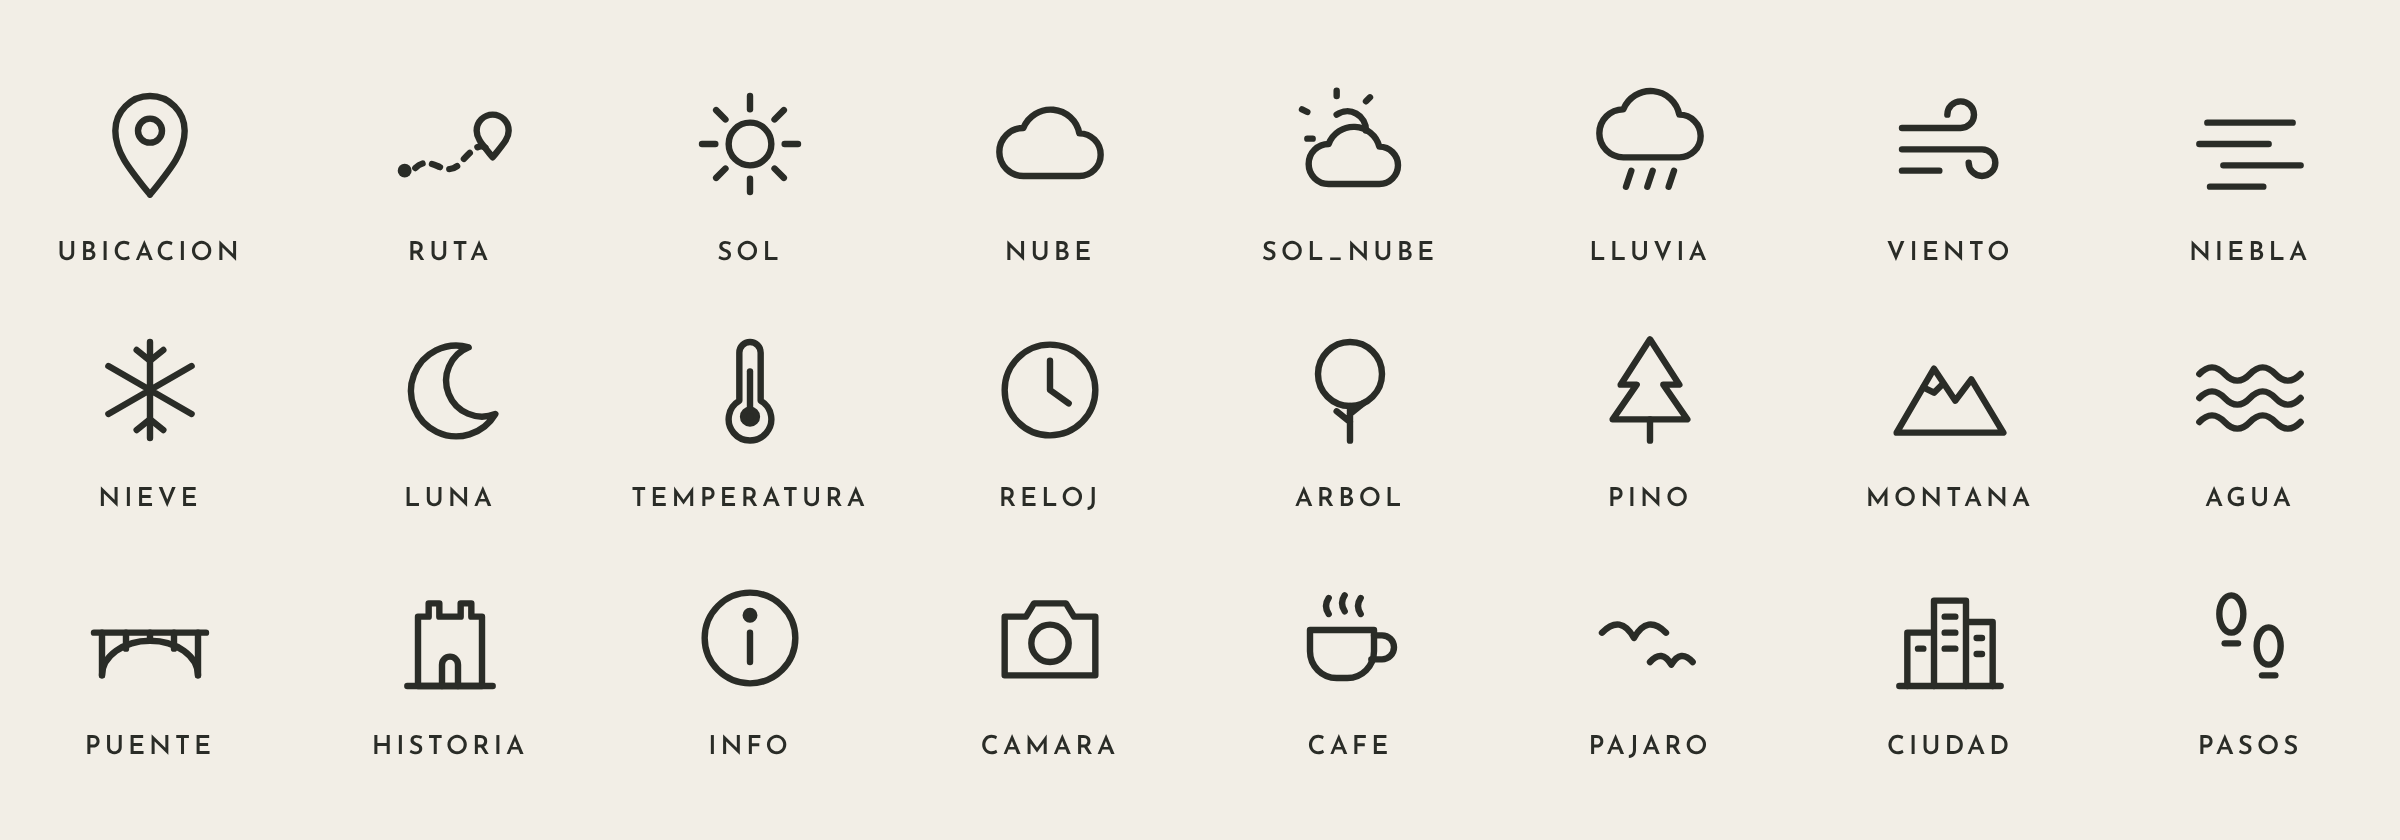
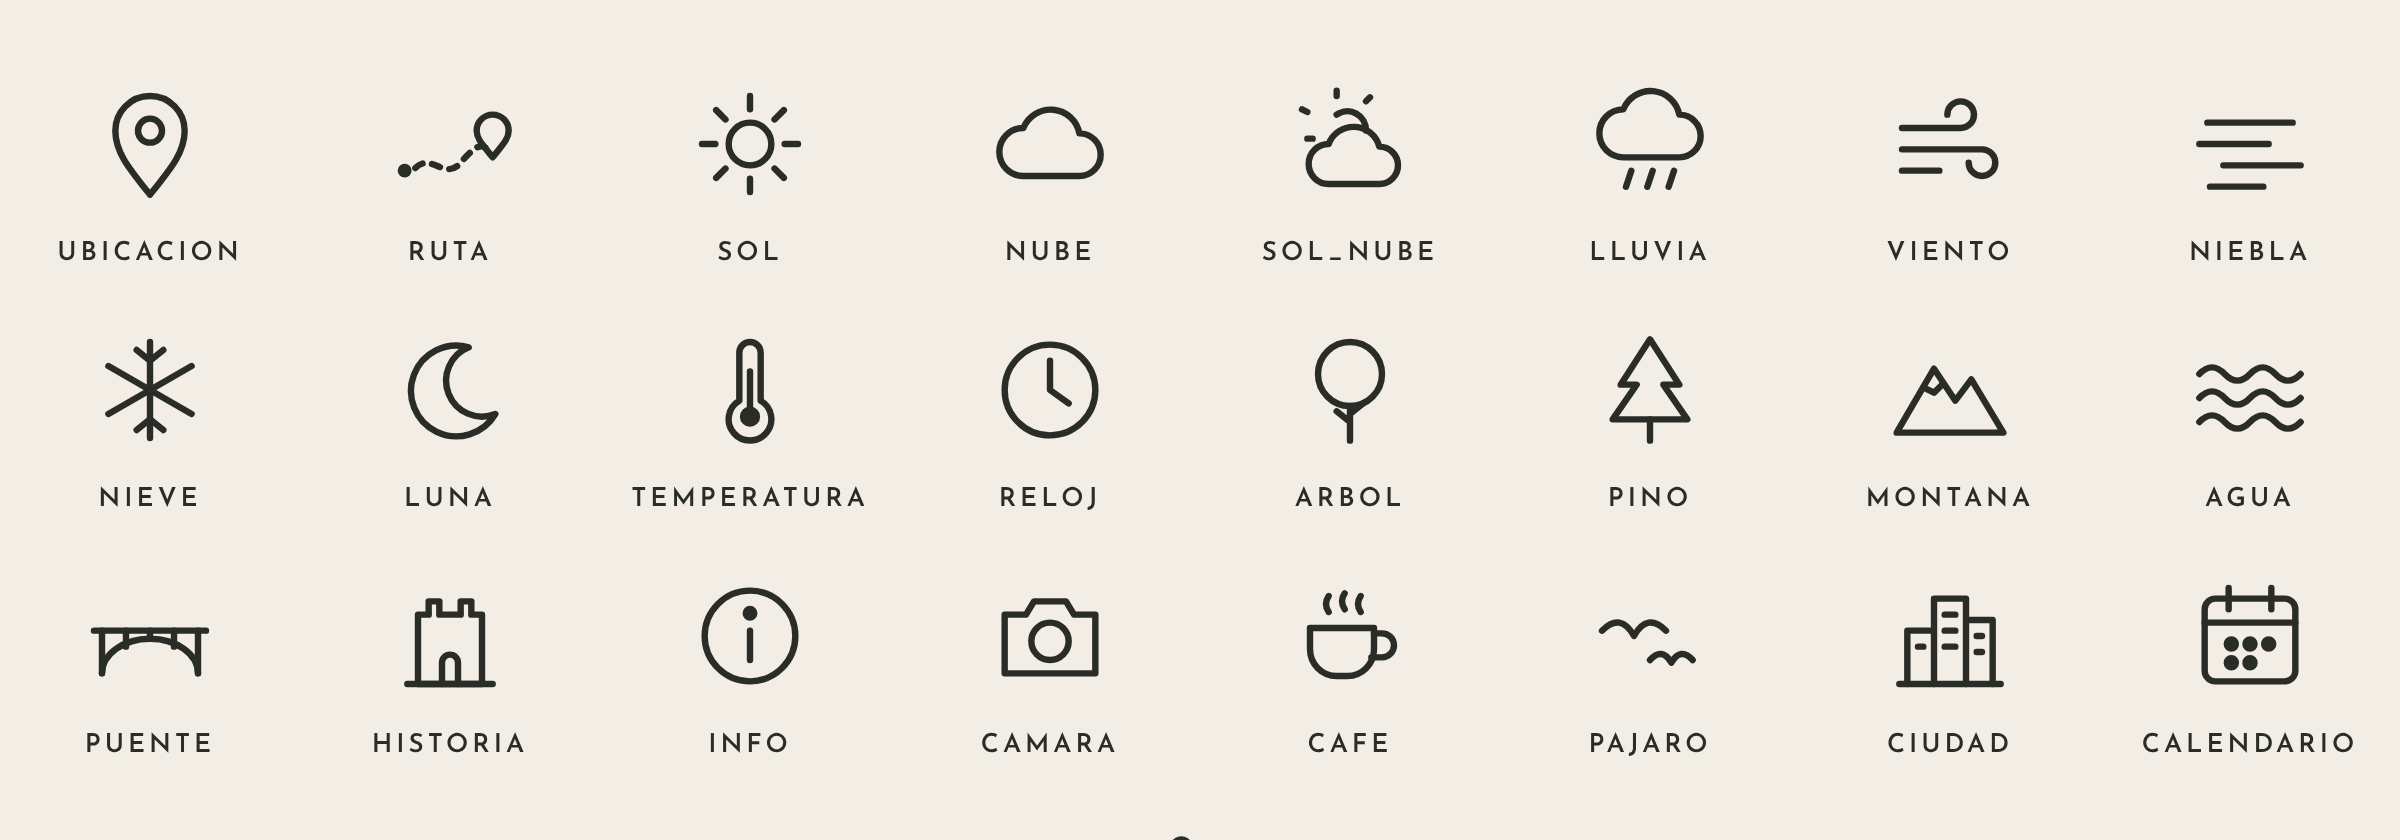
Elita: bloque de clima (estación, temperatura y cielo, uno abajo del otro) e ícono de calendario
Claude-Session: https://claude.ai/code/session_01QcE6ahXjMRX9nuFAhFcmJW

diff --git a/elita-aventuras/scripts/agregados.py b/elita-aventuras/scripts/agregados.py
@@ -33,6 +33,7 @@ I={
  'cafe':'<path d="M9 21 h24 v8 a10 10 0 0 1 -10 10 h-4 a10 10 0 0 1 -10 -10z"/><path d="M33 23 h3 a4.5 4.5 0 0 1 0 9 h-4"/><path d="M16 9 q-2 3 0 6 M22 8 q-2 3 0 6 M28 9 q-2 3 0 6"/>',
  'pajaro':'<path d="M6 22 q7 -7 12 2 q5 -9 12 -2"/><path d="M24 33 q4.5 -5 8 1 q3.5 -6 8 -1"/>',
  'ciudad':'<path d="M5 42 h38"/><path d="M8 42 V22 h10 v20 M18 42 V10 h12 v32 M30 42 V18 h10 v24"/><path d="M22 16 h4 M22 22 h4 M22 28 h4 M12 28 h2 M34 24 h2 M34 30 h2"/>',
+ 'calendario':'<rect x="7" y="10" width="34" height="31" rx="4"/><path d="M7 19 h34 M16 6 v8 M32 6 v8"/><circle cx="17" cy="27" r="1.7" fill="currentColor"/><circle cx="24" cy="27" r="1.7" fill="currentColor"/><circle cx="31" cy="27" r="1.7" fill="currentColor"/><circle cx="17" cy="34" r="1.7" fill="currentColor"/><circle cx="24" cy="34" r="1.7" fill="currentColor"/>',
  'pasos':'<ellipse cx="17" cy="15" rx="4.5" ry="7"/><path d="M14.5 26 h5"/><ellipse cx="31" cy="27" rx="4.5" ry="7"/><path d="M28.5 38 h5"/>',
 }
 def icono(nombre,col=CREMA,tam=48,sw=2.4):
@@ -151,6 +152,31 @@ def fila_estacion(cielo='nube',textos=None,guia=False,fondo=''):
             b+=f'<div style="position:absolute;left:{x}px;top:{EST["base"]}px;width:{w}px;height:4px;background:#ff3b6b"></div><div style="position:absolute;left:{x}px;top:{EST["base"]-200}px;width:4px;height:260px;background:#ff3b6b"></div>'
     return f'<div style="position:relative;width:3840px;height:2160px;{fondo}">{b}</div>'
 
+# ---------- bloque de clima: estación / temperatura / cielo, uno abajo del otro ----------
+# Misma columna que la ubicación (íconos centrados en x=277, texto en x=380), líneas cada 180 px en 4K:
+# estación 1360, temperatura 1540, cielo 1720 (línea base); la ubicación sigue en 1900.
+BLOQUE={'icono_x':277,'texto_x':380,'bases':(1360,1540,1720)}
+def bloque_clima(cielo='nublado',textos=None,guia=False,fondo='',extra=''):
+    halo='filter:drop-shadow(0 0 20px rgba(20,26,38,.65)) drop-shadow(0 4px 6px rgba(0,0,0,.45))'
+    b=''
+    for base,n in zip(BLOQUE['bases'],('calendario','temperatura',CIELOS[cielo])):
+        cy=base-52
+        b+=f'<div style="position:absolute;left:{BLOQUE["icono_x"]-ICON_TAM/2}px;top:{cy-ICON_TAM/2}px;{halo}">{icono(n,CREMA,ICON_TAM,2.6)}</div>'
+    if textos:
+        b+=f'<svg style="position:absolute;left:0;top:0;overflow:visible" width="3840" height="2160"><defs><filter id="s" x="-20%" y="-60%" width="140%" height="220%"><feDropShadow dx="0" dy="0" stdDeviation="14" flood-color="#141A26" flood-opacity=".7"/></filter></defs>'
+        for base,t,(fam,tam) in zip(BLOQUE['bases'],textos,(('CG',115),('JS',100),('CG',115))):
+            b+=f'<text x="{BLOQUE["texto_x"]}" y="{base}" font-family="{fam}" font-weight="700" font-size="{tam}" fill="{CREMA}" filter="url(#s)">{t}</text>'
+        b+='</svg>'
+    if guia:
+        for base in BLOQUE['bases']:
+            b+=f'<div style="position:absolute;left:{BLOQUE["texto_x"]}px;top:{base}px;width:700px;height:4px;background:#ff3b6b"></div>'
+        b+=f'<div style="position:absolute;left:{BLOQUE["texto_x"]}px;top:{BLOQUE["bases"][0]-140}px;width:4px;height:{BLOQUE["bases"][-1]-BLOQUE["bases"][0]+200}px;background:#ff3b6b"></div>'
+    return f'<div style="position:relative;width:3840px;height:2160px;{fondo}">{b}{extra}</div>'
+def todo_bloque(out='agregados/bloque-clima'):
+    t=[(f'{out}/bloque-clima_{c}_4K.png',bloque_clima(c),(3840,2160),1) for c in CIELOS]
+    t.append((f'{out}/guia-bloque_4K.png',bloque_clima(guia=True).replace('<div style="position:absolute;left:192','<div style="display:none;left:192'),(3840,2160),1))
+    asyncio.run(generar(t))
+
 if __name__=='__main__':
     import sys
     if len(sys.argv)>1 and sys.argv[1]=='placa':
@@ -162,6 +188,6 @@ if __name__=='__main__':
         o=a.parse_args()
         asyncio.run(generar([(o.salida,placa(o.tipo,o.titulo,o.texto,o.etiqueta,o.icono,o.lang,not o.sin_firma),(1920,1080),2)]))
     elif len(sys.argv)>1 and sys.argv[1]=='clima':
-        todo_clima()
+        todo_clima(); todo_bloque()
     else:
-        todo(); todo_clima()
+        todo(); todo_clima(); todo_bloque()

diff --git a/elita-aventuras/entregables/Elita-Agregados/GUIA-TEXTO.md b/elita-aventuras/entregables/Elita-Agregados/GUIA-TEXTO.md
@@ -84,3 +84,17 @@ Secuencia 4K (en 1080p, la mitad de cada número y escala 53):
 | Temperatura | texto: **Josefin Sans Bold** | X 930 · Y 1720 (línea base) | 100 |
 | Clima | `icono_nube.png`, `icono_sol.png`, etc. | 1365 · 1668 | escala 106 |
 | (Ubicación, abajo) | `ubicacion.png` + texto | 277 · 1848 / texto X 380 · Y 1900 | 106 / 115 |
+
+## Bloque de clima (estación / temperatura / cielo, uno abajo del otro)
+
+Archivos en `bloque-clima/`: `bloque-clima_<estado>_4K.png` (calendario + termómetro + ícono del cielo, ya ubicados; estados: despejado, parcial, nublado, lluvia, niebla, viento, nieve, noche-despejada), `guia-bloque_4K.png` y `ejemplo.jpg`. No incluye la ubicación; queda justo arriba de ella, así pueden convivir.
+
+Textos (4K; en 1080p la mitad), alineados a la izquierda, X = 380:
+
+| Línea | Ejemplo | Fuente | Tamaño | Línea base Y |
+|---|---|---|---|---|
+| Estación | Otoño | Cormorant Garamond Bold | 115 | 1360 |
+| Temperatura | 12°C | Josefin Sans Bold | 100 | 1540 |
+| Cielo | Parcialmente nublado | Cormorant Garamond Bold | 115 | 1720 |
+
+Plantilla (una vez por cada estado del cielo que uses): Gráficos esenciales → Editar → Nueva capa → Desde archivo → `bloque-clima_<estado>_4K.png`; agregar las 3 capas de texto con las medidas de arriba; clic derecho en el clip → Exportar como plantilla de gráficos animados → "Elita – clima <estado>".
